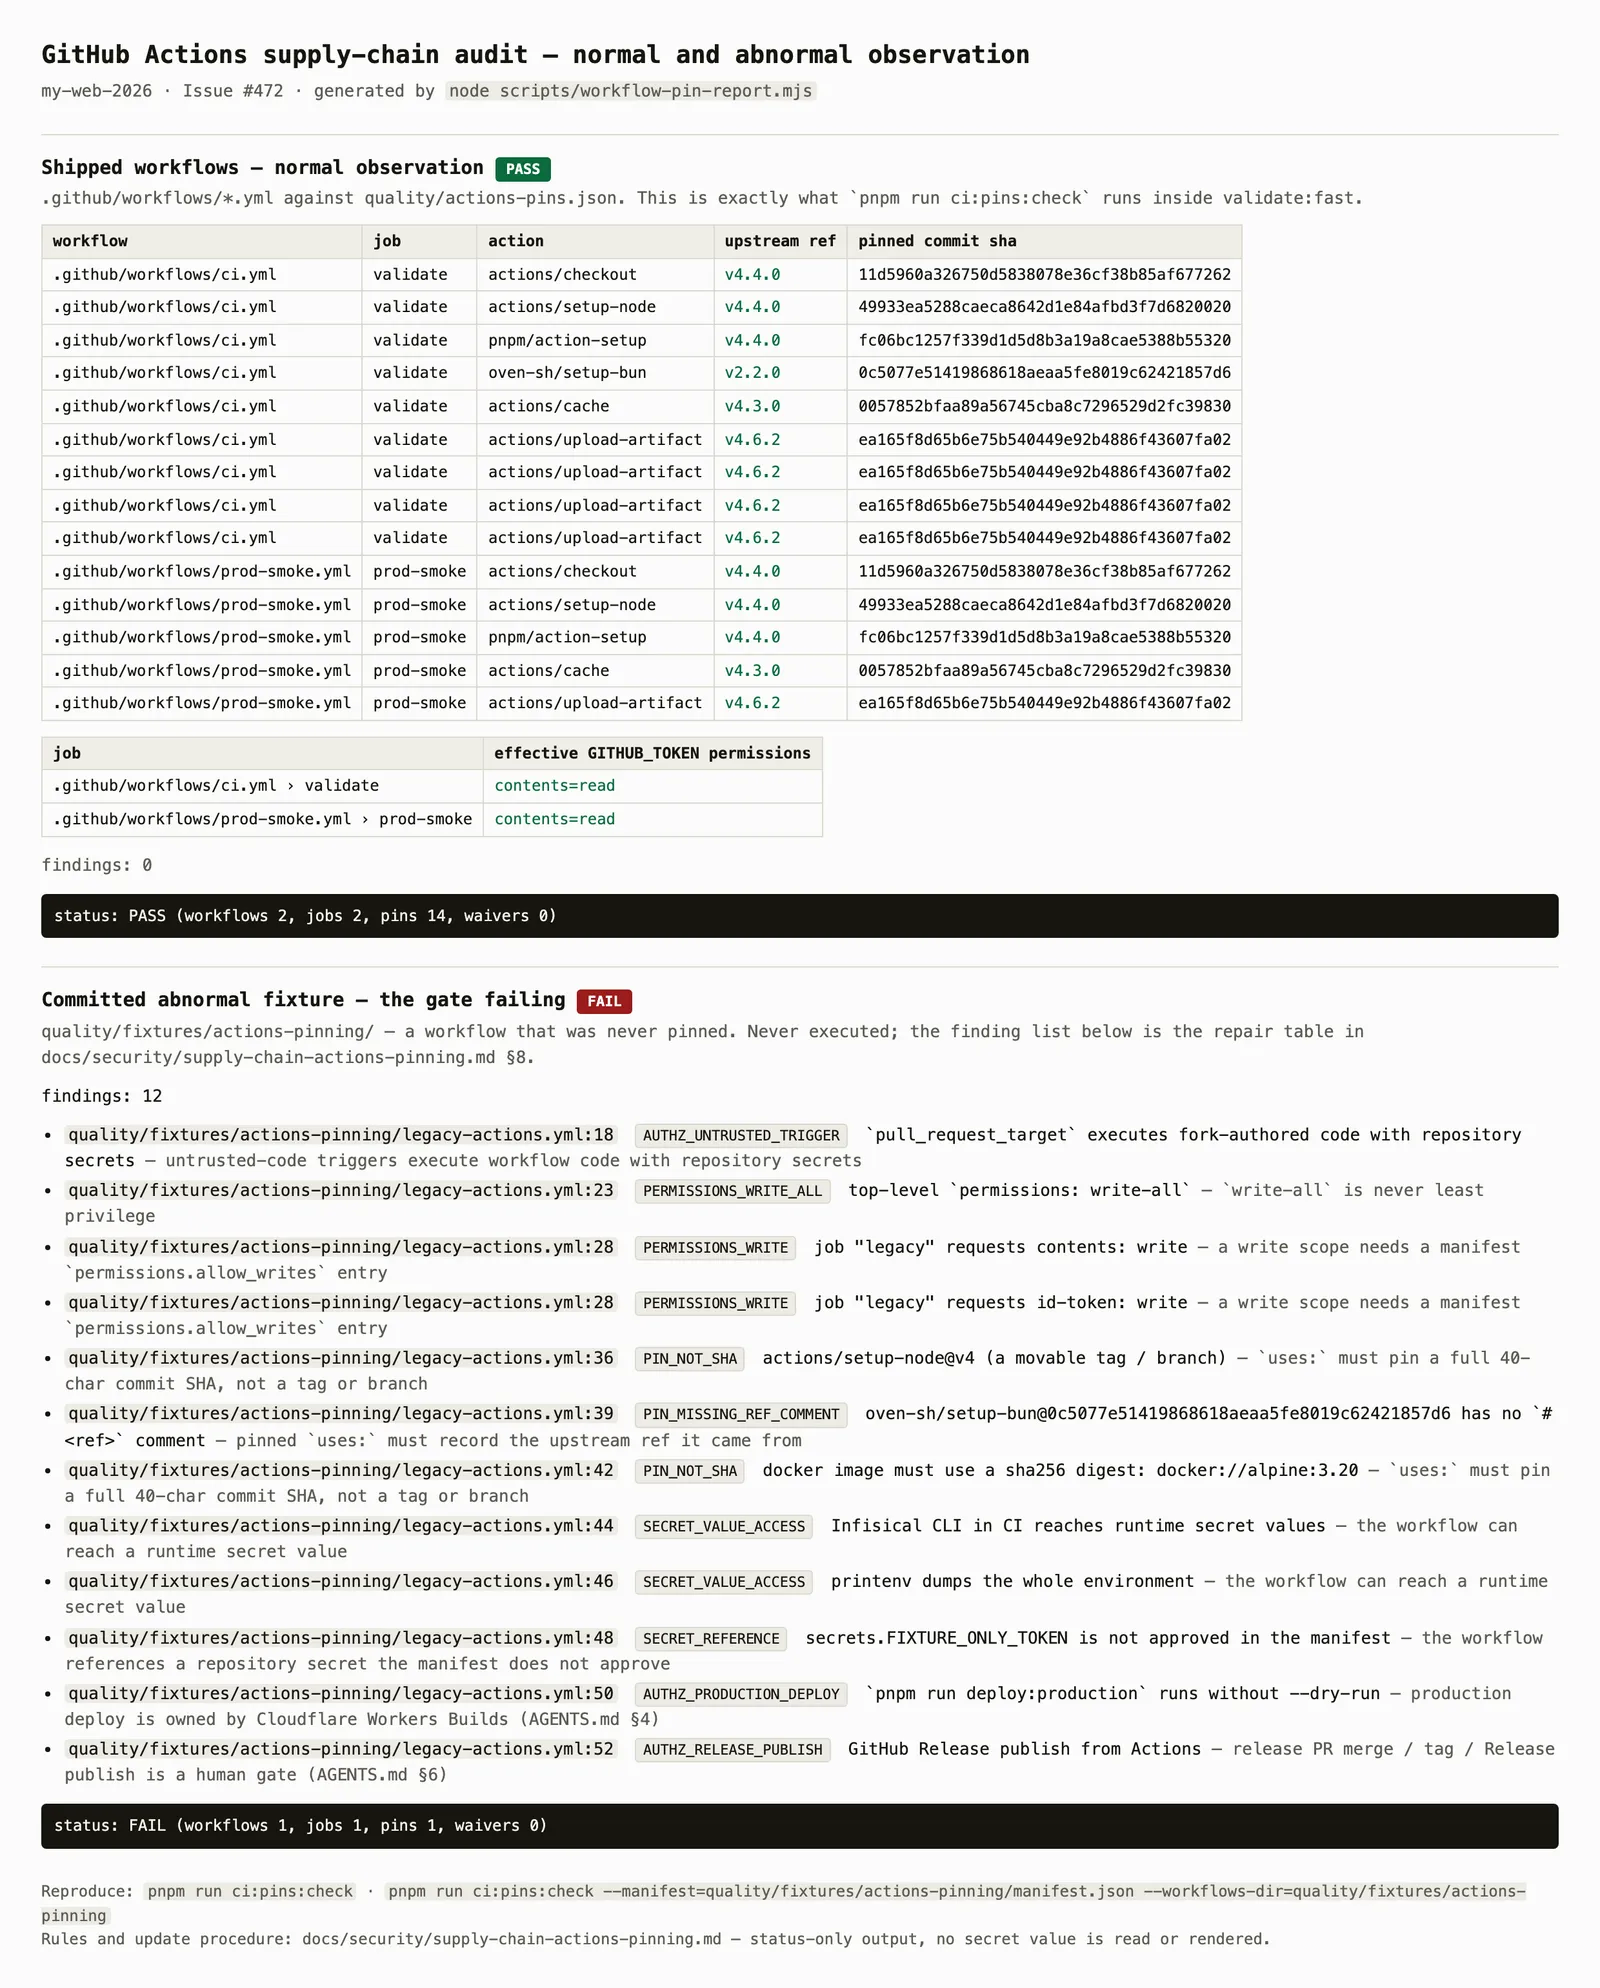
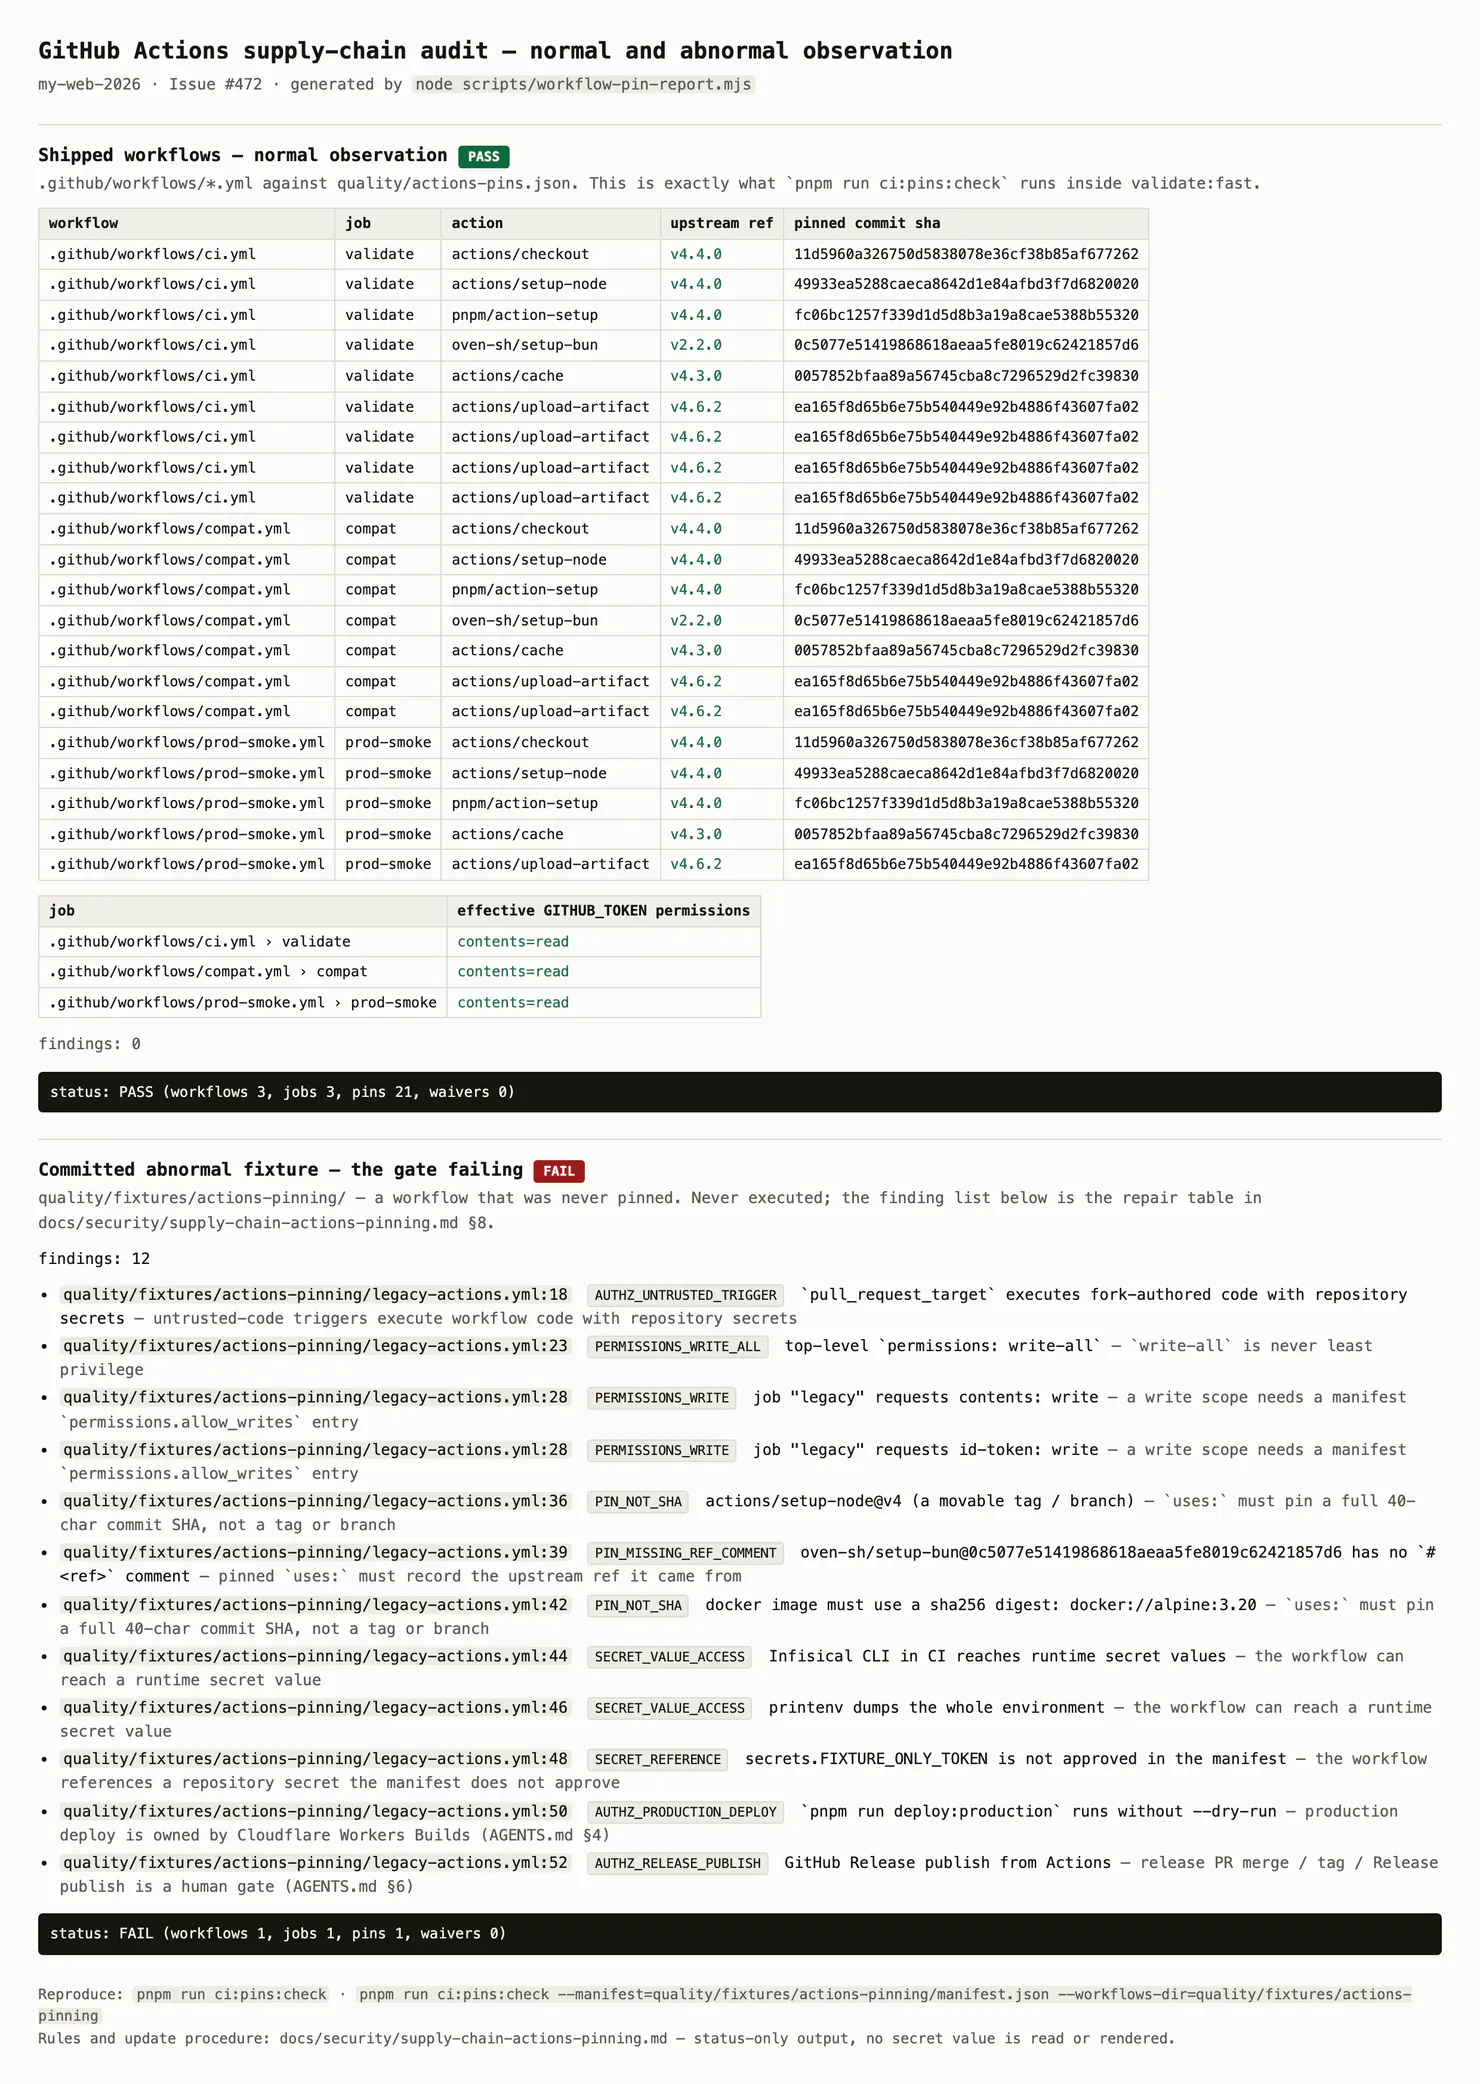
fix(supply-chain): pin the merged compat workflow and audit nested triggers (#472)

Changed region(s): [[0.0, 0.0, 0.9946, 0.998]]

diff --git a/docs/security/supply-chain-actions-pinning.md b/docs/security/supply-chain-actions-pinning.md
@@ -50,8 +50,10 @@ different questions, so both run.
 
 ## 2. The audit: before and after
 
-Both workflows were on floating tags before this Issue. 14 `uses:`
-lines, 6 distinct actions, 0 permissions findings.
+All three shipped workflows are pinned. The audit covers 21 `uses:`
+lines, 6 distinct actions, and 0 permissions findings (`compat.yml`
+arrived on the release trunk with floating tags and is pinned in the
+same reconciliation).
 
 | Workflow | Job | Action | Before | After (SHA) | Upstream |
 | --- | --- | --- | --- | --- | --- |
@@ -61,6 +63,12 @@ lines, 6 distinct actions, 0 permissions findings.
 | `ci.yml` | `validate` | `oven-sh/setup-bun` | `@v2` | `0c5077e51419…` | v2.2.0 |
 | `ci.yml` | `validate` | `actions/cache` | `@v4` | `0057852bfaa8…` | v4.3.0 |
 | `ci.yml` | `validate` | `actions/upload-artifact` ×4 | `@v4` | `ea165f8d65b6…` | v4.6.2 |
+| `compat.yml` | `compat` | `actions/checkout` | `@v4` | `11d5960a3267…` | v4.4.0 |
+| `compat.yml` | `compat` | `actions/setup-node` | `@v4` | `49933ea5288c…` | v4.4.0 |
+| `compat.yml` | `compat` | `pnpm/action-setup` | `@v4` | `fc06bc1257f3…` | v4.4.0 |
+| `compat.yml` | `compat` | `oven-sh/setup-bun` | `@v2` | `0c5077e51419…` | v2.2.0 |
+| `compat.yml` | `compat` | `actions/cache` | `@v4` | `0057852bfaa8…` | v4.3.0 |
+| `compat.yml` | `compat` | `actions/upload-artifact` ×2 | `@v4` | `ea165f8d65b6…` | v4.6.2 |
 | `prod-smoke.yml` | `prod-smoke` | `actions/checkout` | `@v4` | `11d5960a3267…` | v4.4.0 |
 | `prod-smoke.yml` | `prod-smoke` | `actions/setup-node` | `@v4` | `49933ea5288c…` | v4.4.0 |
 | `prod-smoke.yml` | `prod-smoke` | `pnpm/action-setup` | `@v4` | `fc06bc1257f3…` | v4.4.0 |
@@ -72,7 +80,7 @@ already used**, so the pin changes the mutability, not the behaviour.
 Moving to a new major (`actions/checkout@v5`, `upload-artifact@v5`)
 is a separate decision with its own review — see §5.
 
-Effective `GITHUB_TOKEN` permissions, both jobs: `contents=read`.
+Effective `GITHUB_TOKEN` permissions, all three jobs: `contents=read`.
 The audit found no permission defect, so this Issue changed no
 permission. The gate now keeps it that way.
 
@@ -188,7 +196,7 @@ $ pnpm run ci:pins:check
 …
 findings: 0
 
-status: PASS (workflows 2, jobs 2, pins 14, waivers 0)
+status: PASS (workflows 3, jobs 3, pins 21, waivers 0)
 ```
 
 Two things must be true at once: `findings: 0`, and every job row

diff --git a/docs/verification/supply-chain/README.md b/docs/verification/supply-chain/README.md
@@ -19,8 +19,8 @@ The image is rendered from `scripts/check-workflow-pinning.mjs` — the
 same function `pnpm run ci:pins:check` runs inside `validate:fast` —
 so the picture cannot claim a pin the gate would reject.
 
-1. **Shipped workflows — normal observation.** All 14 `uses:` lines of
-   `.github/workflows/ci.yml` and `prod-smoke.yml` with their upstream
+1. **Shipped workflows — normal observation.** All 21 `uses:` lines of
+   `.github/workflows/ci.yml`, `compat.yml` and `prod-smoke.yml` with their upstream
    ref and full 40-char commit SHA, plus the effective
    `GITHUB_TOKEN` permissions each job resolves to
    (`contents=read`, inherited from the workflow-level block).
@@ -51,7 +51,7 @@ Actions never reads it. `audit.json` next to the images is the
 status-only summary of the same run.
 
 An image is not the proof: the gate's behaviour is asserted in
-`scripts/check-workflow-pinning.test.mjs` (45 tests, including the
+`scripts/check-workflow-pinning.test.mjs` (46 tests, including the
 exact rule set the fixture produces), and the interpretation of each
 rule is in
 [`docs/security/supply-chain-actions-pinning.md`](../../security/supply-chain-actions-pinning.md).
